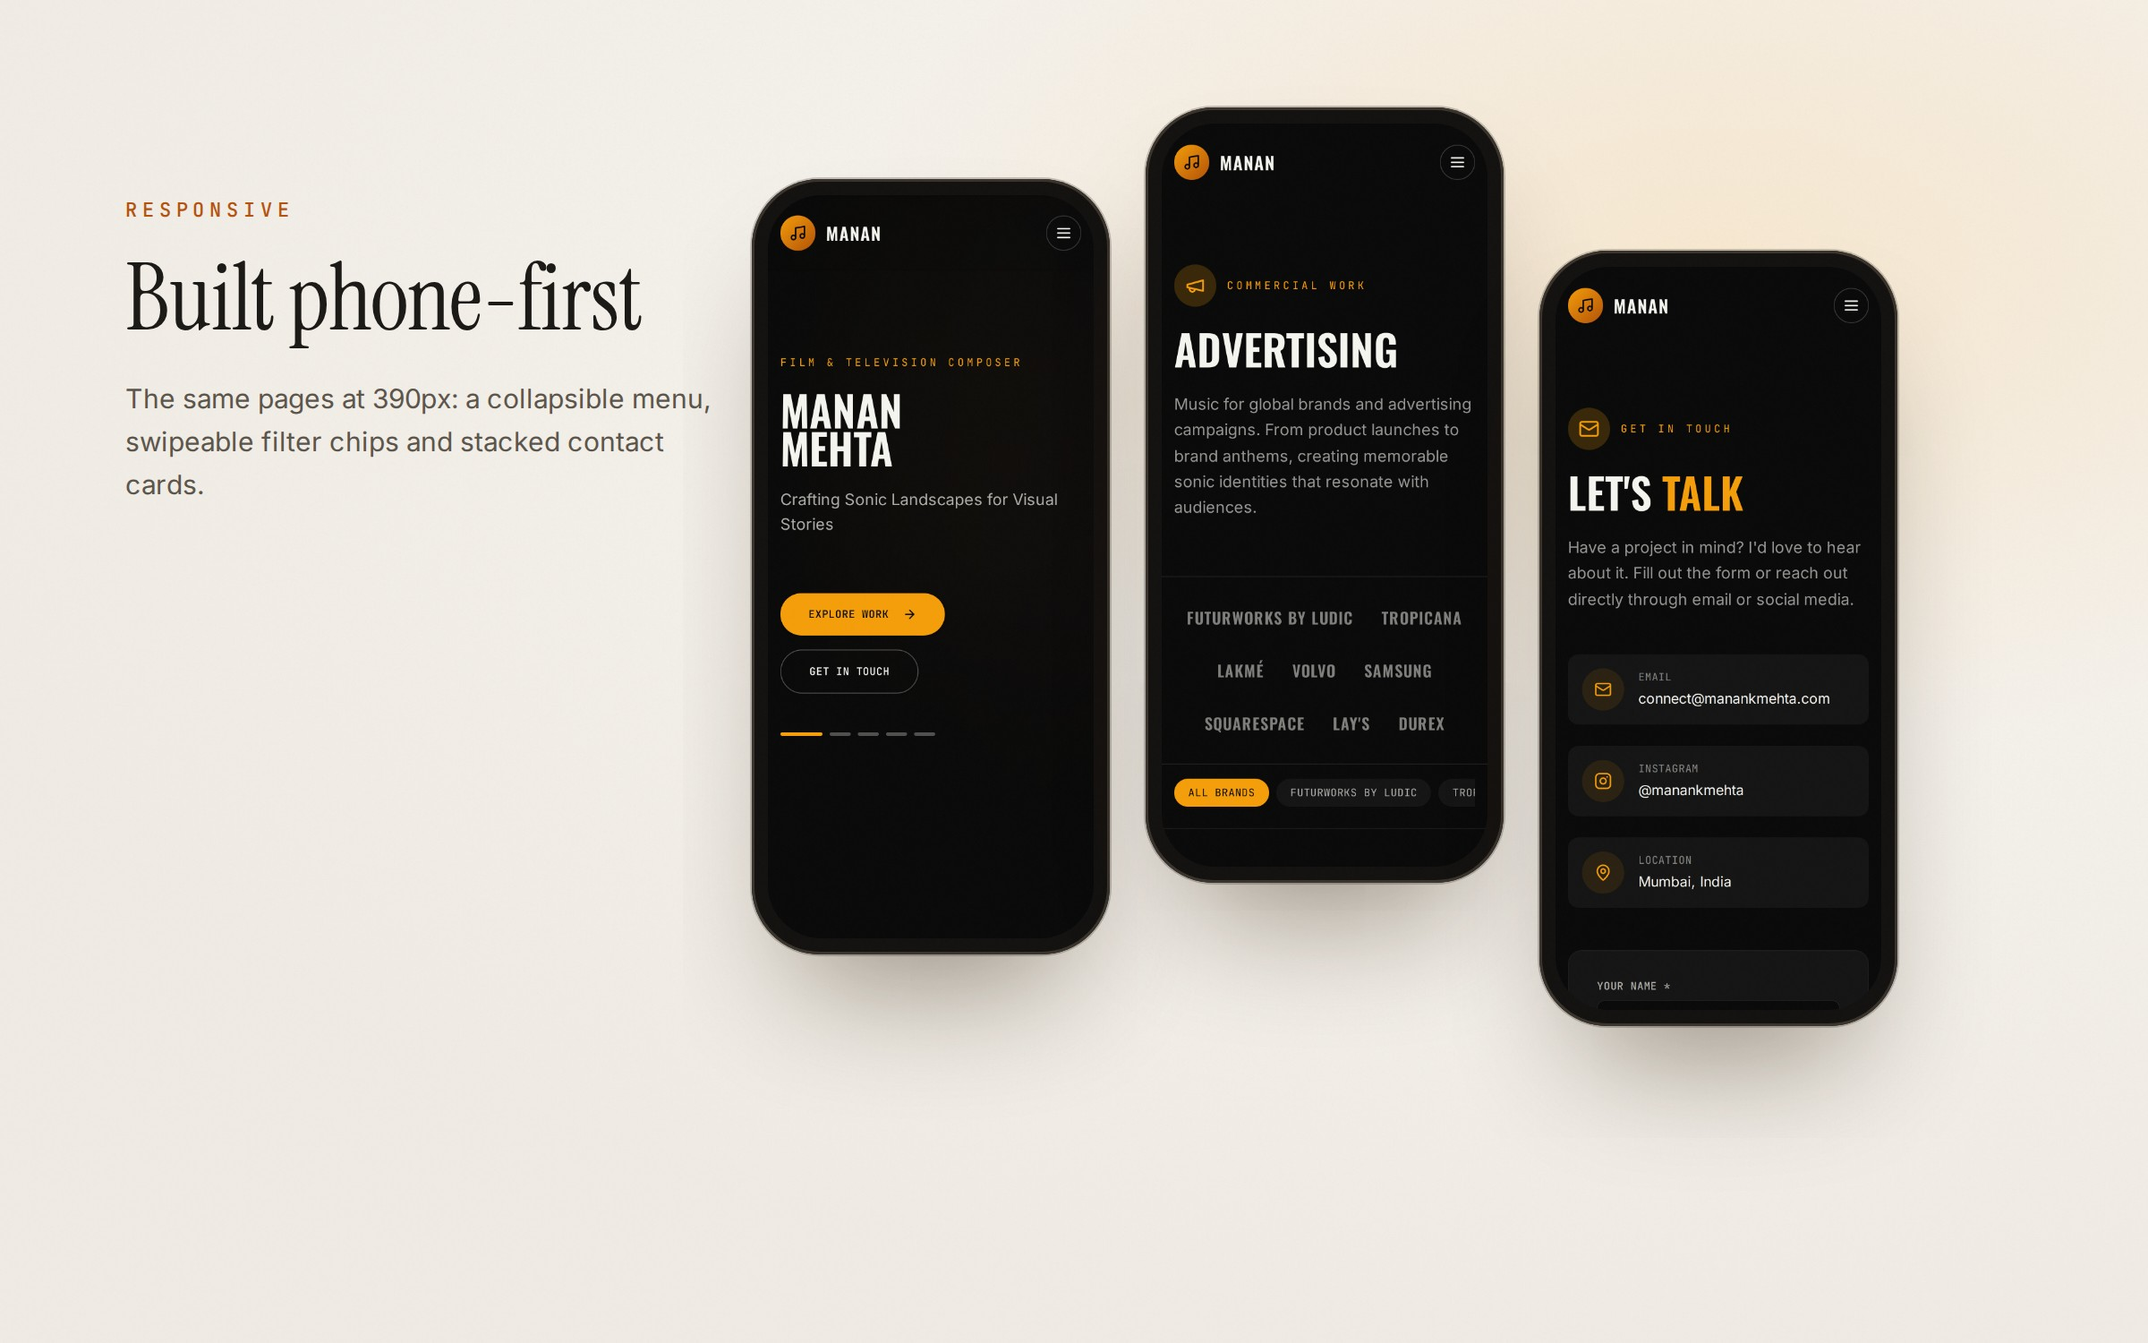
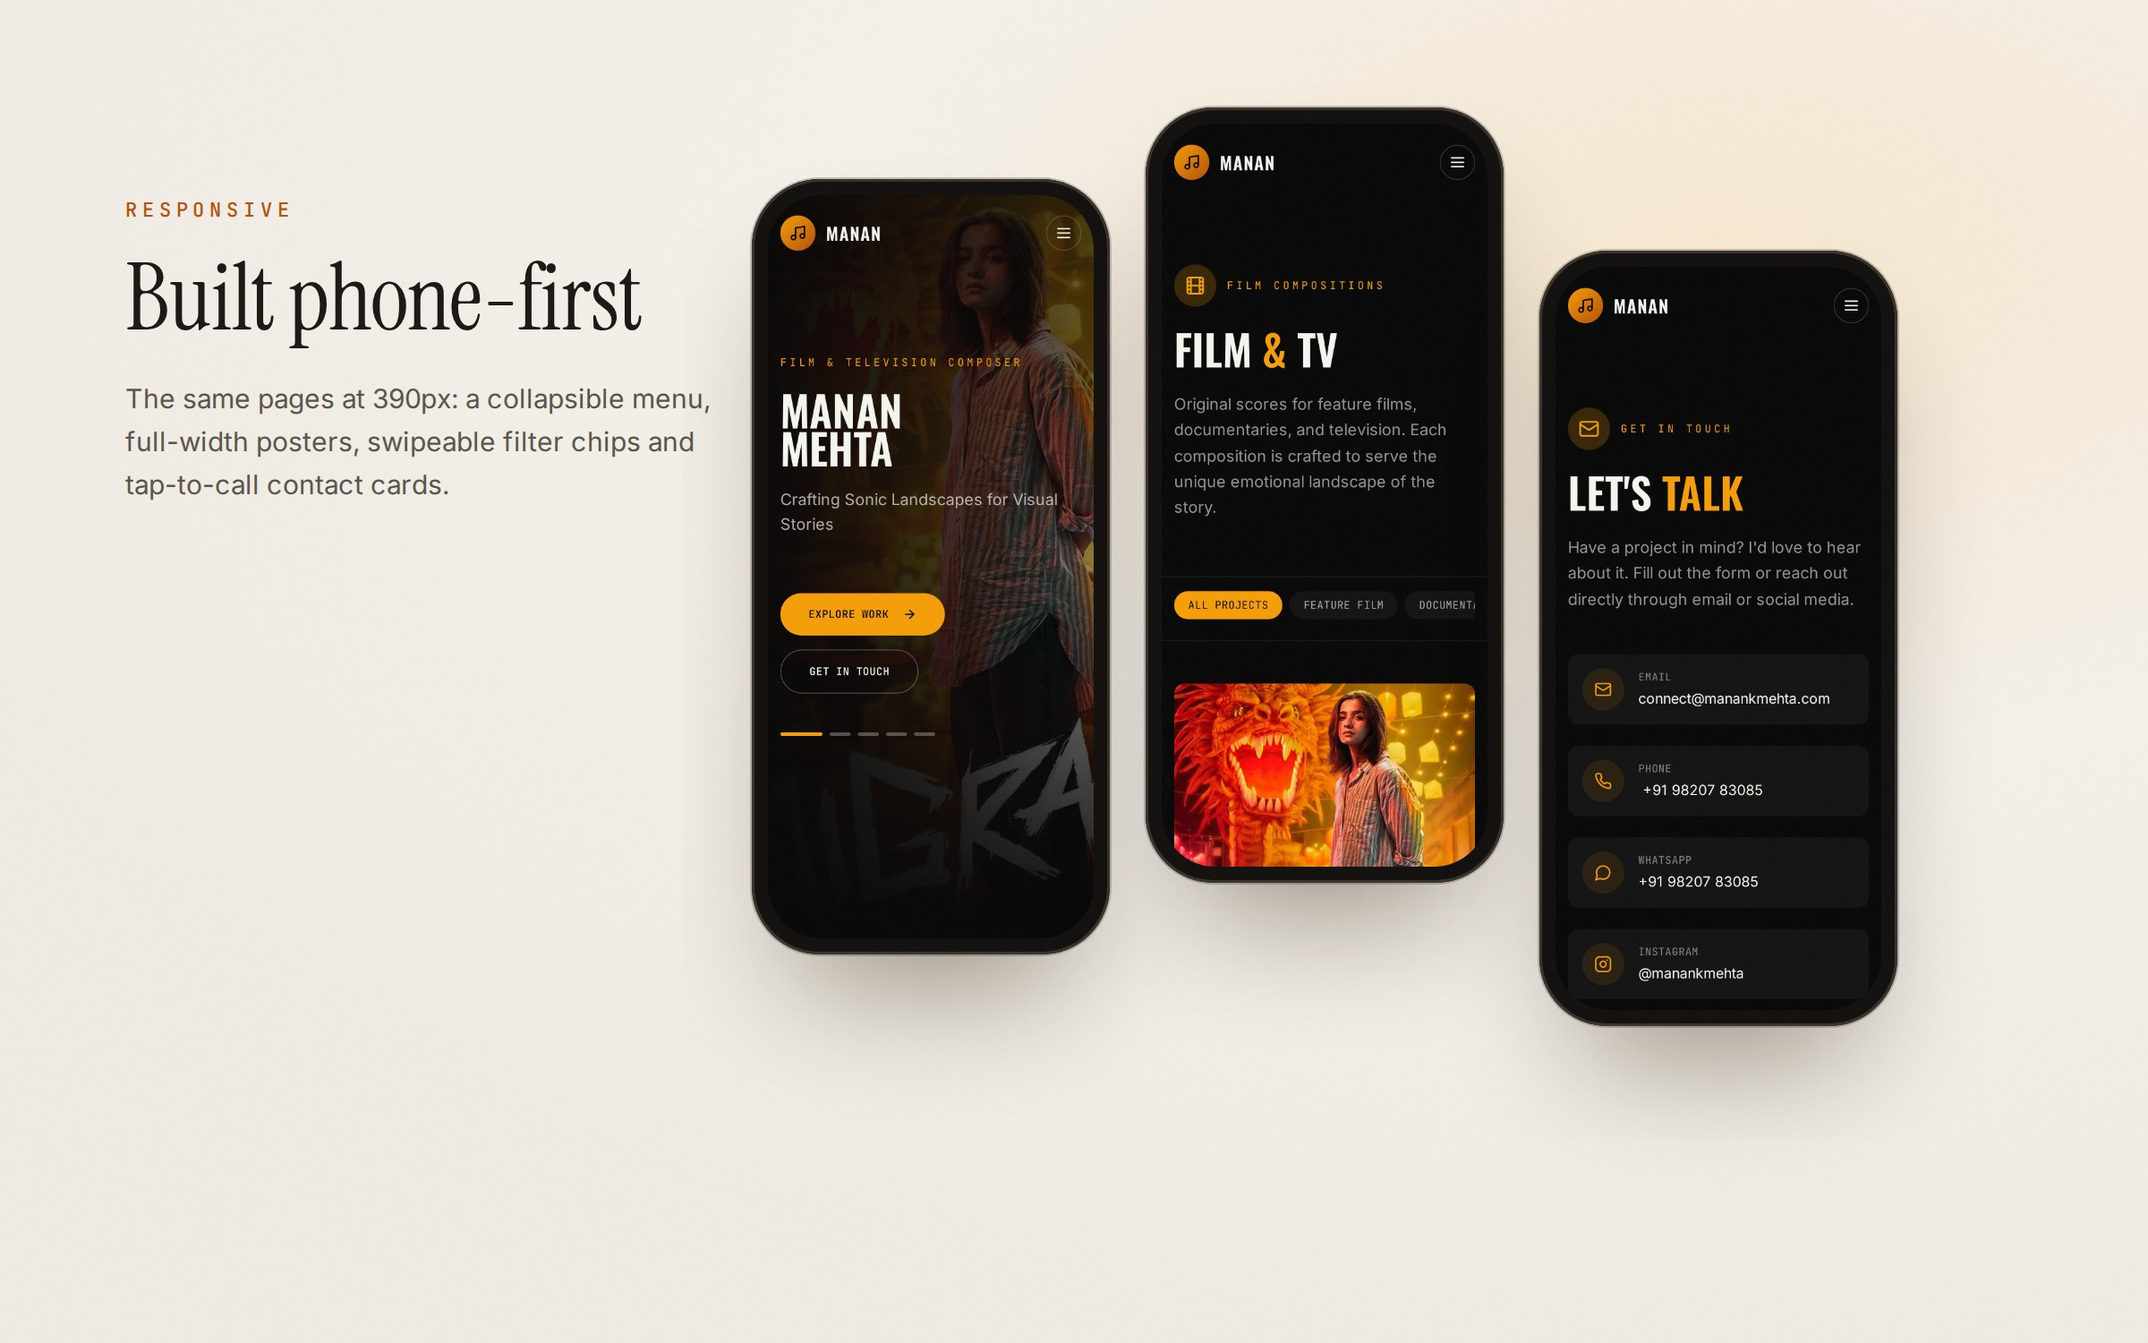
Re-shoot the public site from manankmehta.com
Public pages and phone views now come from the live site with the real
posters and campaign stills. The admin screens come from a local copy loaded
with the live content (sync-live.mjs, read-only against production), so
films, ads, banner and settings match. Credits is switched off on the live
site, so its image is replaced by the home page's Film Scores section.

Individual screens are committed as JPG under screenshots/screens; the PNG
working files are no longer tracked.

Claude-Session: https://claude.ai/code/session_0143SrbDziXQWQigATBnyLdP

diff --git a/portfolio/CASE_STUDY.md b/portfolio/CASE_STUDY.md
@@ -4,6 +4,10 @@ Ready-to-paste content for **ankitgajera.com → Admin → Portfolio → Project
 Fields are listed in the order the form shows them. Images live in
 `portfolio/screenshots/final/`.
 
+Public-site images are taken from the live site, https://manankmehta.com. Admin
+images come from a local copy of the CMS loaded with the live site's content
+(the real admin needs Manan's login), so the films, ads and text match.
+
 > Items marked **✎ confirm** are facts only you know (dates, scope). Change them
 > before publishing; your form's own rule is “never imply more than you did”.
 
@@ -25,14 +29,17 @@ A cinematic portfolio and custom CMS for Mumbai film composer Manan Mehta, so he
 
 | # | File | Why it's here |
 |---|---|---|
-| 1 | `01-cover.jpg` | Cover. Public site, CMS and phone in one frame. |
-| 2 | `06-admin-banner.jpg` | Strongest admin screen: the banner picker. |
-| 3 | `02-public-site.jpg` | Three public pages fanned out. |
-| 4 | `07-admin-edit-film.jpg` | The list and edit dialog: how content gets in. |
-| 5 | `04-enquiries.jpg` | Contact form → inbox, front and back together. |
-| 6 | `09-mobile.jpg` | Responsive proof. |
-| 7 | `05-admin-dashboard.jpg` | CMS overview. |
-| 8 | `08-admin-control.jpg` | Page visibility + settings. |
+| 1 | `01-cover.jpg` | Cover. Live hero (Jigra), CMS and phone in one frame. |
+| 2 | `03-home-work.jpg` | The posters — the most eye-catching frame. |
+| 3 | `06-admin-banner.jpg` | Strongest admin screen: the banner picker. |
+| 4 | `10-work-pages.jpg` | Films and Ads pages full of real artwork. |
+| 5 | `07-admin-edit-film.jpg` | The list and edit dialog: how content gets in. |
+| 6 | `04-enquiries.jpg` | Contact form → inbox, front and back together. |
+| 7 | `09-mobile.jpg` | Responsive proof. |
+| 8 | `05-admin-dashboard.jpg` | CMS overview. |
+
+`02-public-site.jpg`, `08-admin-control.jpg` and `11-film-detail.jpg` are used
+in the case-study body below.
 
 All are 2400 × 1500 (16:10) JPEGs, each showing a different screen, so the
 hover sequence never repeats itself.
@@ -112,7 +119,8 @@ word, image and track in his hands.
 
 The site uses a near-black canvas with a single amber accent, condensed Oswald
 headlines and monospaced captions, so the posters and video stills supply the
-colour. Six pages share one navigation:
+colour. Five pages are live, plus a sixth (Credits) that is built and
+currently switched off from the admin panel:
 
 - **Home** — a full-screen hero that rotates through hand-picked films and
   ads, then sections for film scores, advertising work and a closing call to
@@ -121,14 +129,18 @@ colour. Six pages share one navigation:
   grid and list views. Each film opens a detail view with the director, genre
   and SoundCloud tracks, so a visitor can hear the score without leaving the
   page.
-- **Ads** — a brand strip and brand filters, with each spot playing from YouTube in a pop-up player.
+- **Ads** — a strip of the brands he has scored for (Volvo, Samsung,
+  Squarespace, Lay's, Lakmé, Tropicana, Durex, Torrent Electricals and more)
+  and brand filters, with each spot playing from YouTube in a pop-up player.
 - **About** — biography, achievements, skills and a four-step process.
-- **Credits** — the filmography grouped by year, with counters at the top.
-- **Contact** — an enquiry form, direct contact cards and an FAQ.
+- **Contact** — an enquiry form, cards for email, phone, WhatsApp and
+  Instagram, and an FAQ.
+- **Credits** *(built, currently hidden)* — the filmography grouped by year,
+  with counters calculated from the rows.
 
-### 4 · Image — `11-film-detail.jpg`
+### 4 · Image — `03-home-work.jpg`
 
-### 5 · Image — `03-credits.jpg`
+### 5 · Image — `11-film-detail.jpg`
 
 ### 6 · Text — Why a custom CMS
 **Heading:** Every word on the site, editable
@@ -192,7 +204,9 @@ Rate limiting keeps spam bots from flooding it.
 
 ### 15 · Image — `09-mobile.jpg`
 
-### 16 · Text — Outcome
+### 16 · Image — `10-work-pages.jpg`
+
+### 17 · Text — Outcome
 **Heading:** Outcome
 
 manankmehta.com is live, and Manan maintains it himself: adding films and
@@ -230,34 +244,34 @@ and a fuller explanation for every image, so you can use whichever fits the
 block.
 
 ### 01-cover.jpg
-- **Caption:** The public site and its CMS, side by side.
-- **Alt:** Manan Mehta's portfolio home page in a browser, overlapped by the admin panel's banner editor and the mobile home page.
-- **Explanation:** The project in one frame. On the left, the public home page:
+- **Caption:** The live site and its CMS, side by side.
+- **Alt:** The manankmehta.com home page with the Jigra poster behind the composer's name, overlapped by the admin panel's banner editor and the mobile home page.
+- **Explanation:** The project in one frame. On the left, the live home page:
   the composer's name set large in Oswald over a rotating banner of his films
-  and ads. On the right, the admin screen that controls that banner, and the
-  same home page on a phone.
+  and ads, here the *Jigra* poster. On the right, the admin screen that
+  controls that banner, and the same home page on a phone.
 
 ### 02-public-site.jpg
-- **Caption:** About, Credits and Contact share one dark, amber-accented system.
-- **Alt:** Three pages of manankmehta.com — About, Credits and Contact — layered in browser windows on a warm background.
+- **Caption:** Films, Ads and About share one dark, amber-accented system.
+- **Alt:** Three pages of manankmehta.com — Film & TV, Advertising and About — layered in browser windows on a warm background.
 - **Explanation:** Each page opens the same way: a small amber label, a
-  condensed headline and a short introduction. That consistency is what makes
-  six very different pages (a biography, a data table, a form) feel like one
-  site.
+  condensed headline and a short introduction, then the work. That consistency
+  is what makes a poster grid, a brand reel and a biography feel like one site.
 
-### 03-credits.jpg
-- **Caption:** The filmography counts itself.
-- **Alt:** The Credits page showing totals for credits, feature films, commercials and active years above a year-by-year list.
-- **Explanation:** The four counters (15 credits, 3 feature films, 8
-  commercials, 4 active years) aren't typed in. They're calculated from the
-  rows in the admin panel, so adding a credit updates every number. Credits
-  are grouped by year in collapsible rows and filterable by type.
+### 03-home-work.jpg
+- **Caption:** Below the hero, the work does the talking.
+- **Alt:** The Film Scores section of the manankmehta.com home page showing posters for Jigra, Happy Patel: Khatarnak Jasoos, Raftaar, RBI Unlocked, Aakhri Ride and Bombay Mon Amour.
+- **Explanation:** The home page's "Film Scores" section shows each film as its
+  full poster with a role badge (e.g. *Additional Music*), type, year and a
+  one-line description, with "View all films" leading to the Films page. The
+  advertising section follows the same pattern with video stills.
 
 ### 04-enquiries.jpg
 - **Caption:** A visitor's brief, and where it lands.
 - **Alt:** The public contact form beside the admin Messages inbox showing an opened enquiry with Reply, Mark unread and Delete actions.
-- **Explanation:** The contact form asks for name, email, project type and a
-  brief. Each submission is saved to the admin inbox (unread ones get an amber
+- **Explanation:** The live Contact page pairs the form with cards for email,
+  phone, WhatsApp and Instagram, all edited from Settings. The form asks for
+  name, email, project type and a brief. Each submission is saved to the admin inbox (unread ones get an amber
   dot and a count in the sidebar) and emailed to the client. Opening a message
   shows the project type, and **Reply** opens a pre-addressed email. *The
   enquiries shown are sample data.*
@@ -266,7 +280,7 @@ block.
 - **Caption:** The admin dashboard: counts, unread enquiries and a quick guide.
 - **Alt:** The Manan Mehta content manager dashboard showing counts for films, ads, credits and unread messages, and a quick guide.
 - **Explanation:** The first screen after login. Four tiles link to Films &
-  TV, Ads, Credits and Messages and show how many of each exist. The quick
+  TV (7), Ads (9), Credits (15) and Messages and show how many of each exist. The quick
   guide below explains what every section controls, in one line each. The
   sidebar lists all ten screens: Dashboard, Home & Banner, Films, Ads, Credits,
   About Page, Contact Page, Messages, Page Visibility and Settings.
@@ -275,8 +289,9 @@ block.
 - **Caption:** Choosing which films and ads play behind the hero.
 - **Alt:** The Home page editor's Banner section, listing five selected projects with reorder arrows and a grid of all films and ads to add or remove.
 - **Explanation:** The **Banner** section lists the projects currently in
-  the hero (here Jigra, Happy Patel, a Volvo spot, a Squarespace spot and a
-  Fuwo World film), with up/down arrows to reorder and × to remove. Below,
+  the hero (Jigra, Happy Patel: Khatarnak Jasoos, Sports Bag – Fuwo World,
+  Aakhri Ride and the Volvo C40 Recharge spot), with up/down arrows to
+  reorder and × to remove. Below,
   every film and ad appears as a tile, and clicking one adds or removes it.
   “Seconds per slide” sets the rotation speed. Further down the same screen
   are **Hero text** (small heading, tagline, both button labels),
@@ -301,29 +316,30 @@ block.
 - **Explanation:** **Page Visibility** has one switch per page. Turning one
   off removes it from the menu, makes its URL redirect home and takes it out
   of the sitemap, while its content stays editable. The home page is always
-  on. **Settings** groups Identity (name, title, tagline), Contact details
+  on. It's in real use: Manan currently has Credits switched off, which is
+  why that page doesn't appear on the live site. **Settings** groups Identity (name, title, tagline), Contact details
   (email, location, phone, and WhatsApp with a country-code hint), Social links
   (Instagram, Spotify, IMDb), Search engines (page title and description) and
   Your login (change password).
 
 ### 09-mobile.jpg
 - **Caption:** The same site at phone width.
-- **Alt:** Three phones showing the Home, Advertising and Contact pages of manankmehta.com.
+- **Alt:** Three phones showing the Home, Film & TV and Contact pages of manankmehta.com.
 - **Explanation:** At 390 px the navigation collapses into a menu button, the
-  headlines scale down without losing their weight, the brand filters become a
-  swipeable row of chips, and the contact details stack into large cards
-  that are easy to tap.
+  headlines scale down without losing their weight, posters run full width,
+  the filters become a swipeable row of chips, and the contact details stack
+  into large cards: tap the phone number to call, or WhatsApp to chat.
 
-### 10-work-pages.jpg *(see note below)*
+### 10-work-pages.jpg
 - **Caption:** Films and Ads: filterable grids of posters and video stills.
-- **Alt:** The Films & TV page and the Advertising page of manankmehta.com in two browser windows.
+- **Alt:** The Films & TV poster grid and the Advertising page's brand strip and video stills on manankmehta.com.
 - **Explanation:** Films filter by type and switch between grid and list.
   Ads add a brand strip and brand filters, and each card opens its YouTube
   spot in a player without leaving the page.
 
-### 11-film-detail.jpg *(see note below)*
+### 11-film-detail.jpg
 - **Caption:** Each film opens with its score, ready to play.
-- **Alt:** The film detail dialog for Jigra showing type, year, genre, director, description and a two-track Original Score list.
+- **Alt:** The Jigra detail view on manankmehta.com: poster banner, type, year, genre, director, description and a two-track Original Score list.
 - **Explanation:** Clicking a film opens a detail view with its type, year,
   genre, director and description, followed by the **Original Score** track
   list and a link to the full SoundCloud playlist.
@@ -334,12 +350,8 @@ block.
 
 ---
 
-## ⚠ Note on images 10 and 11
+## Note
 
-The film posters and ad thumbnails on manankmehta.com are loaded from other
-sites (filmfare, IMDb/Amazon, TMDB, YouTube, Emergent's CDN). The environment
-that generated these screenshots couldn't reach those hosts, so poster areas
-show a dark amber gradient instead of the real artwork. Images 01–09 don't
-depend on posters and are final. Regenerate 10 and 11 (and, optionally, 01
-and 06 to show real thumbnails) from a machine with normal internet access;
-see `portfolio/README.md`.
+Every image is final. One ad ("Khushiyon Ka Check") has its thumbnail on
+Cloudinary, which the capture environment couldn't reach; that card isn't
+visible in any of the final crops.

diff --git a/portfolio/README.md b/portfolio/README.md
@@ -10,9 +10,14 @@ CASE_STUDY.md           Copy for every field of the "Add project" form, plus
 screenshots/final/      Edited images to upload (2400×1500 JPG, 16:10)
   01-cover.jpg … 11-film-detail.jpg
   og-image-1200x630.jpg Open Graph image (SEO → Image)
-screenshots/raw/        Unedited captures at 2× (1440×900 desktop, 390×844 phone)
-                        *-full.png are full-page captures
-tools/capture.mjs       Takes the raw screenshots from a locally running site
+screenshots/screens/    Every unedited screen as JPG, at 2× (1440×900 desktop,
+                        390×844 phone), for case-study blocks that want a
+                        plain screenshot. public-* and mobile-* come from the
+                        live site, admin-* from a local copy loaded with live
+                        content; *-full are full-page captures
+screenshots/raw/        PNG working files the scripts write (git-ignored)
+tools/sync-live.mjs     Loads the live site's content into the local backend
+tools/capture.mjs       Takes the raw screenshots
 tools/compose.mjs       Frames raw shots into the final images
 ```
 
@@ -20,35 +25,28 @@ tools/compose.mjs       Frames raw shots into the final images
 
 1. Start the site locally (see the root `README.md`): backend on `:8001` with
    `USE_MEMORY_DB=1`, frontend `yarn start` on `:3000`. Restart the backend
-   before each capture so the in-memory inbox starts empty.
+   before each admin capture so the in-memory inbox starts empty.
 2. From the repository root, with Playwright available (`npm i -D playwright`
    somewhere on the module path):
 
    ```bash
-   node portfolio/tools/capture.mjs     # → screenshots/raw
-   node portfolio/tools/compose.mjs     # → screenshots/final
-   node portfolio/tools/compose.mjs 07  # just one composition
-   ```
-
-   To shoot the public pages from the **live site** instead (real content and
-   artwork), set `PUBLIC_URL`; the admin panel and sample enquiries stay local:
-
-   ```bash
+   node portfolio/tools/sync-live.mjs                              # local admin ← live content
    PUBLIC_URL=https://manankmehta.com node portfolio/tools/capture.mjs
+   node portfolio/tools/compose.mjs                                # → screenshots/final
+   node portfolio/tools/compose.mjs 07                             # just one composition
    ```
 
-`capture.mjs` posts three clearly labelled **sample** enquiries
-(“Sample: …”, `@example.com`) so the Messages screens aren't empty.
+   `ONLY=public` or `ONLY=admin` re-shoots one half. Without `PUBLIC_URL` the
+   public pages are shot from the local copy instead.
 
-### Posters
+Nothing is ever written to the live site: `sync-live.mjs` only reads its
+`/api/content`, and the three clearly labelled **sample** enquiries
+("Sample: …", `@example.com`) that fill the Messages screens go to the local
+API.
 
-Film posters and ad thumbnails are hot-linked from filmfare.wwmindia.com,
-m.media-amazon.com, image.tmdb.org, img.youtube.com and
-customer-assets.emergentagent.com. When a host can't be reached, the capture
-swaps in a dark gradient and lists the affected URLs in
-`screenshots/raw/_placeholders.txt`. The current set was captured without
-access to those hosts. Re-run both scripts on a normal connection to get the
-real artwork in `10-work-pages`, `11-film-detail` and the banner thumbnails.
+Remote images that can't be fetched are replaced by a dark gradient and listed
+in `screenshots/raw/_placeholders.txt`. In the current set that's one ad
+thumbnail hosted on Cloudinary, which doesn't appear in any final image.
 
 If Google Fonts is unreachable, point `LOCAL_FONTS` at a directory where
 `@fontsource/oswald`, `@fontsource/inter`, `@fontsource/jetbrains-mono` and
